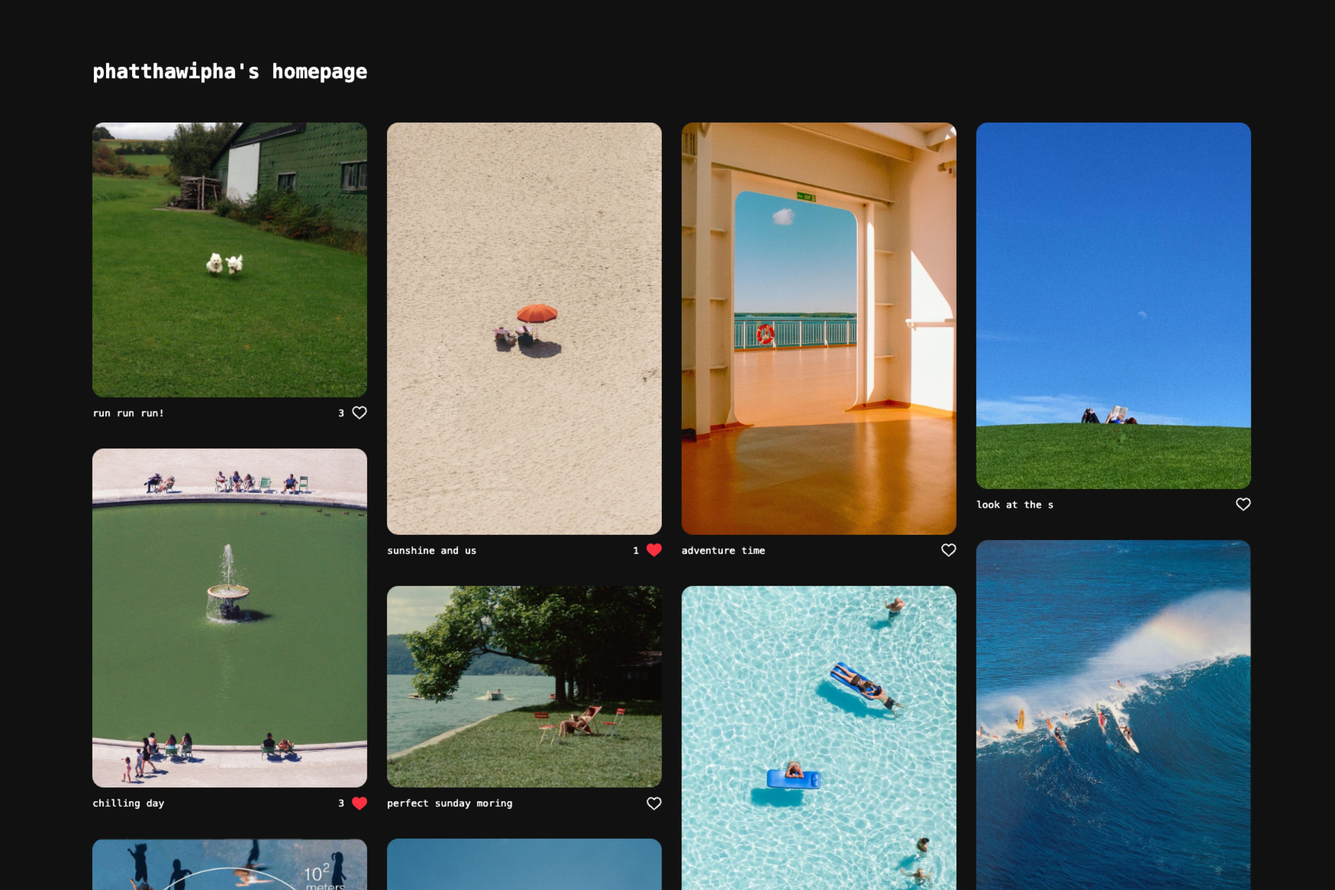
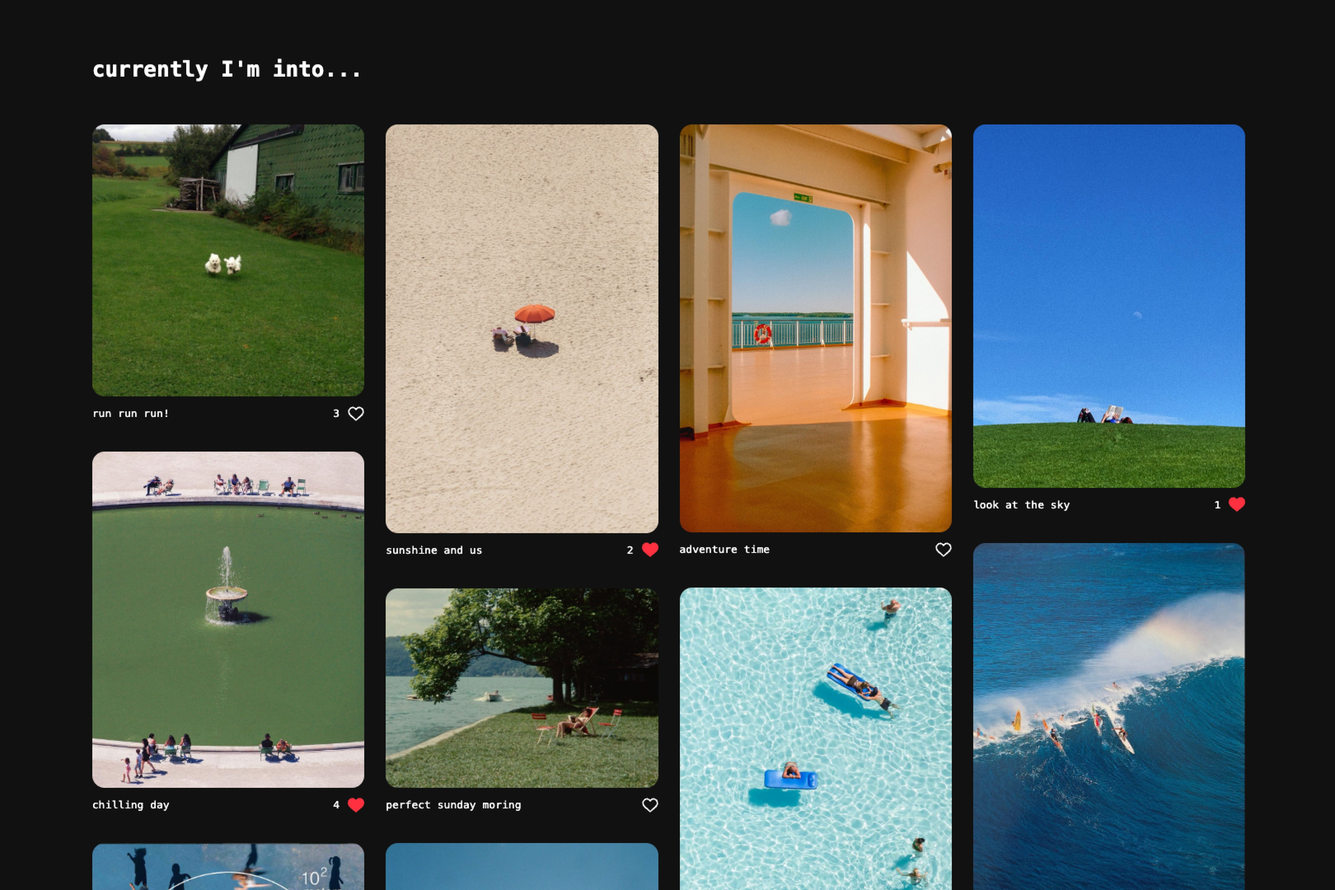
update project image and text styles of loading message of Portfolio component

diff --git a/src/components/utils/FlipBook.jsx b/src/components/utils/FlipBook.jsx
@@ -19,6 +19,11 @@ const Wrapper = styled.div`
   width: 100%;
   height: 100%;
   cursor: pointer;
+
+  .react-pdf__message {
+    color: white;
+    text-align: center;
+  }
 `;
 
 const PageWrapper = styled.div``;
